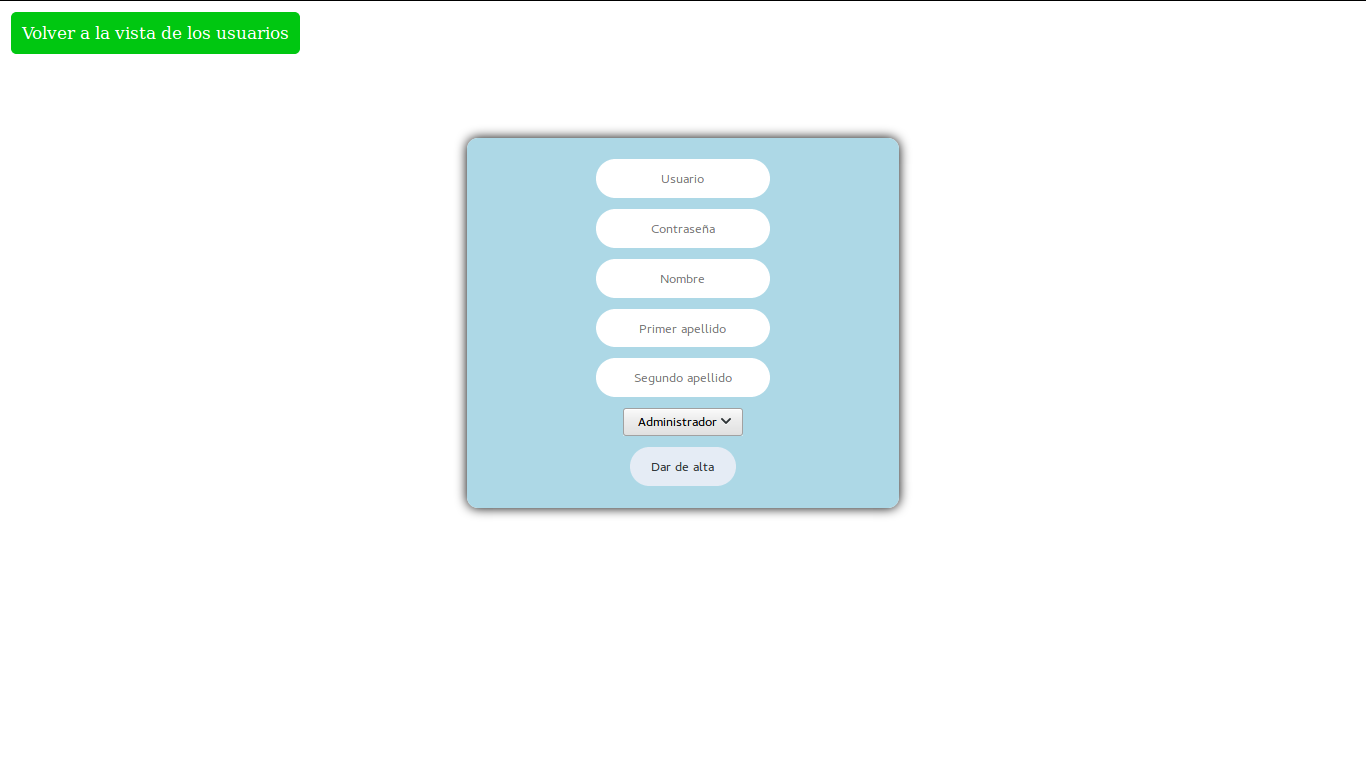
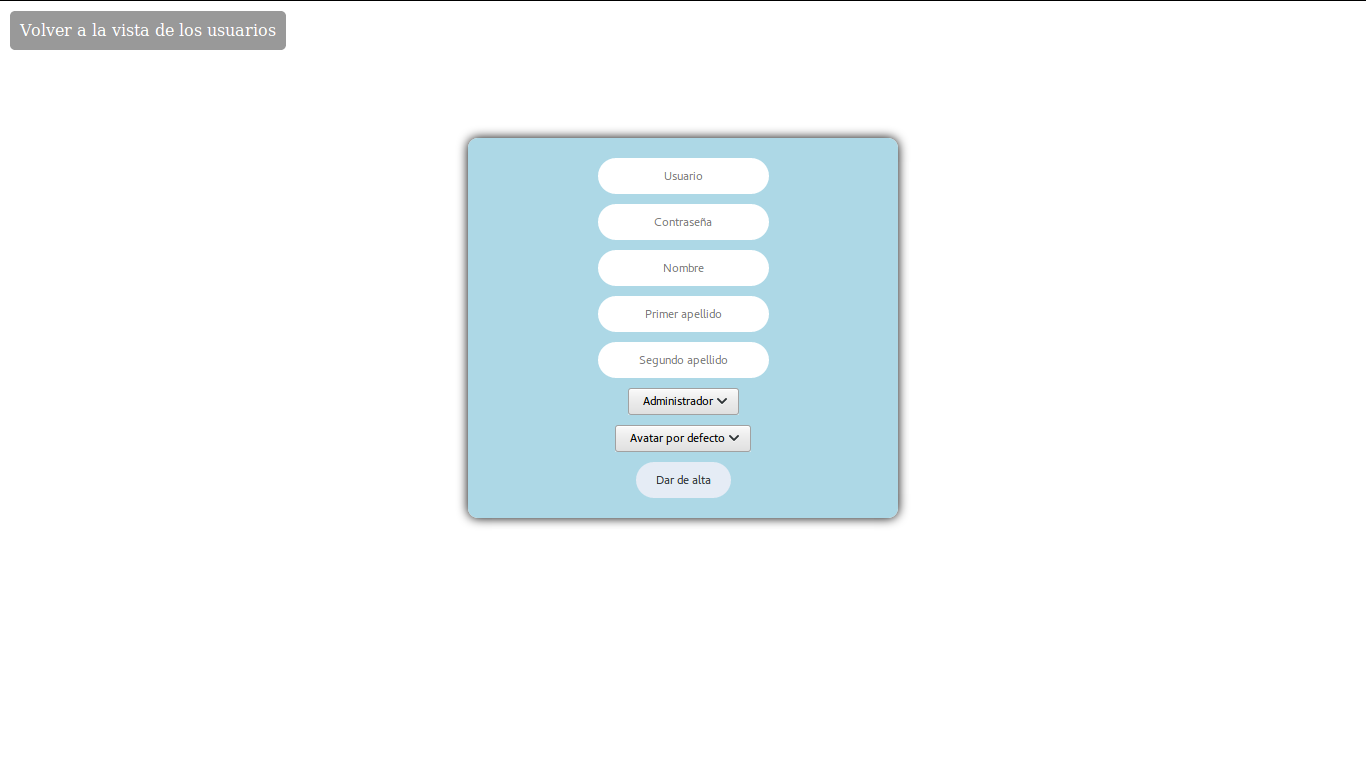
Añadidos avatares y ligero cambio en la página de muestra de usuarios

Changed region(s): [[0.3382, 0.2188, 0.6764, 0.6875], [0.0, 0.0, 0.246, 0.0938]]

diff --git a/estilo.css b/estilo.css
@@ -49,7 +49,7 @@ body > a {
   top: 10px;
   left: 10px;
   padding: 10px;
-  background-color: #00C711;
+  background-color: #999;
   border-radius: 5px;
   text-decoration: none;
   color: #FFF;
@@ -63,13 +63,14 @@ body > h1 {
   margin: 0;
   padding: 20px 0;
   color: #fff;
-  background: linear-gradient(#00ff2a, #4bd862);
+  background: linear-gradient(#AAAAAA, #FFFFFF 150%);
   font-size: 30px;
 }
 
 body > div.tabla {
   height: calc(100vh - 76px);
   width: 100vw;
+  overflow: auto;
   position: absolute;
   bottom: 0;
 }
@@ -129,6 +130,12 @@ body > div.tabla > table td > a:last-child{
 
 body > div.tabla > table td > a:last-child:hover{
   background-color: #4bc2ff;
+}
+
+body > div.tabla > table tr img.avatar{
+  height: 50px;
+  margin-right: 5px;
+  border-radius: 100px;
 }
 
 body > form {
